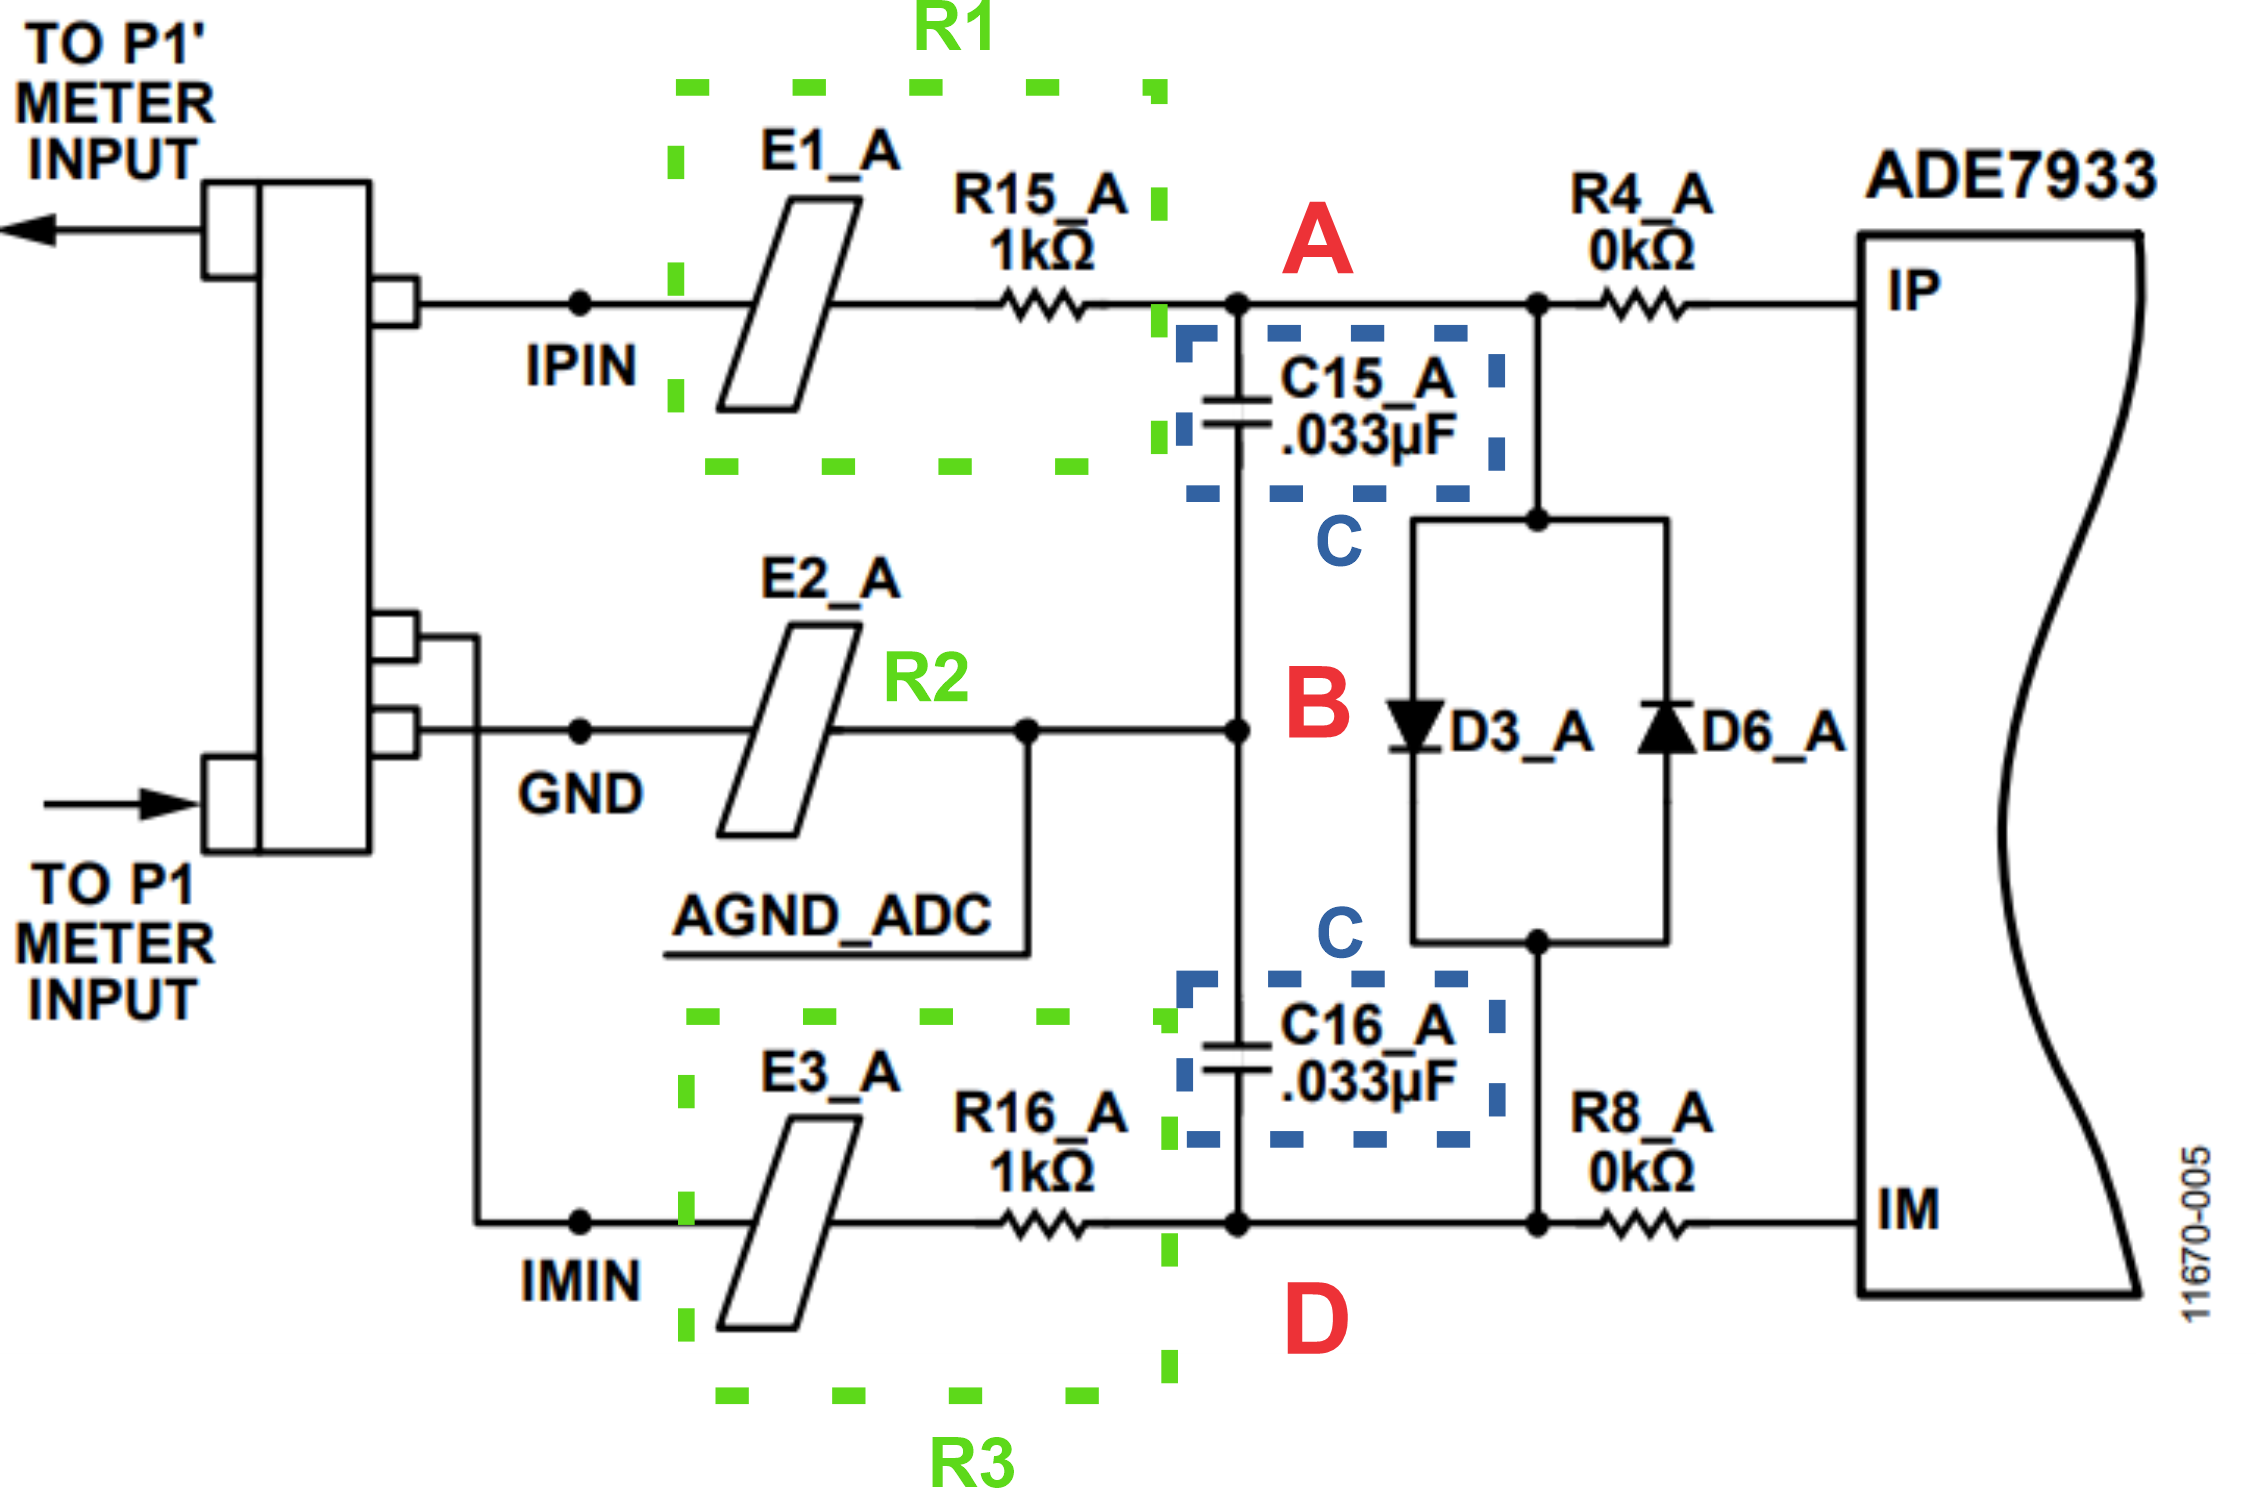
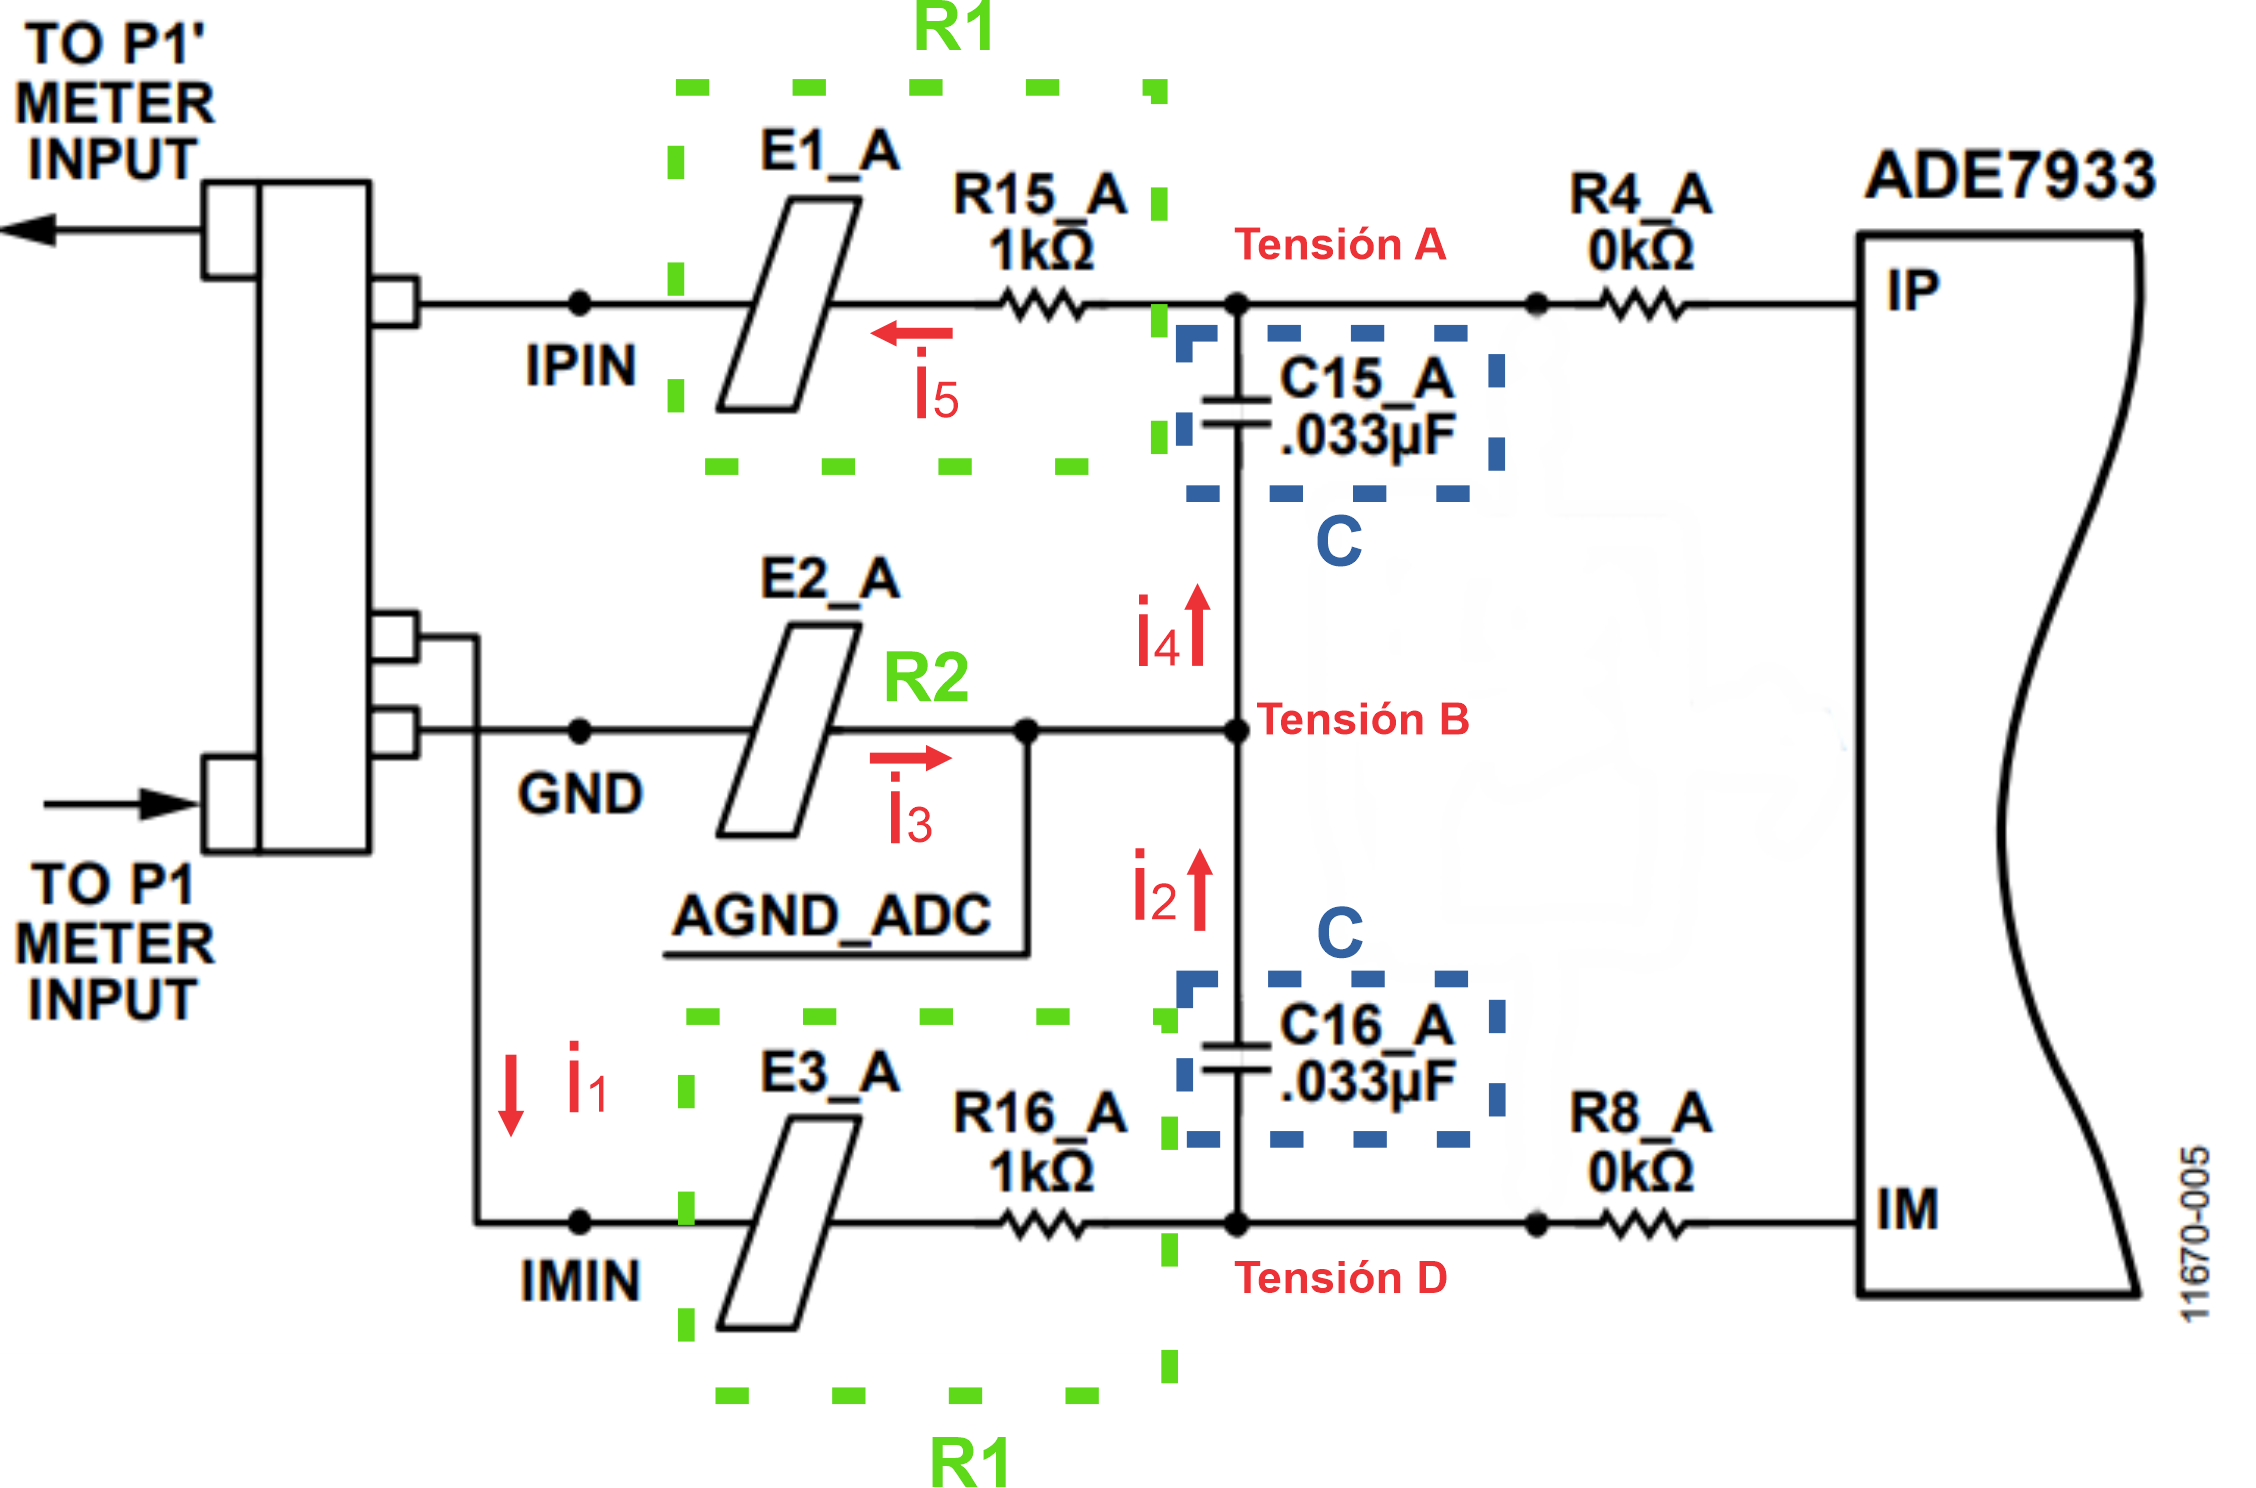
Se actualiza la imagen Nodos.png

diff --git a/3Proyecto/Proyecto.tex b/3Proyecto/Proyecto.tex
@@ -351,7 +351,7 @@ Para encontrar la relación que hay entre la entrada de corriente y el convertid
    \end{center}
 \end{figure}
 
-Como ya se tiene la relación entre la corriente de entrada y el voltaje de salida en la Shunt se procede hallar el voltaje entre el pin IP e IM resolviendo el circuito por medio del teorema de nodos como se muestra en la figura \ref{fig:Nodos}
+Como ya se tiene la relación entre la corriente de entrada y el voltaje de salida en la Shunt se procede hallar el voltaje entre el pin IP e IM resolviendo el circuito por medio del teorema de nodos como se muestra en la figura \ref{fig:Nodos}, los diodos de protección se eliminan ya que la tarjeta viene sin ellos de fabrica. 
 \begin{figure}[H]
     \begin{center}
         \includegraphics[width = 10cm]{3Proyecto/Nodos.PNG}
